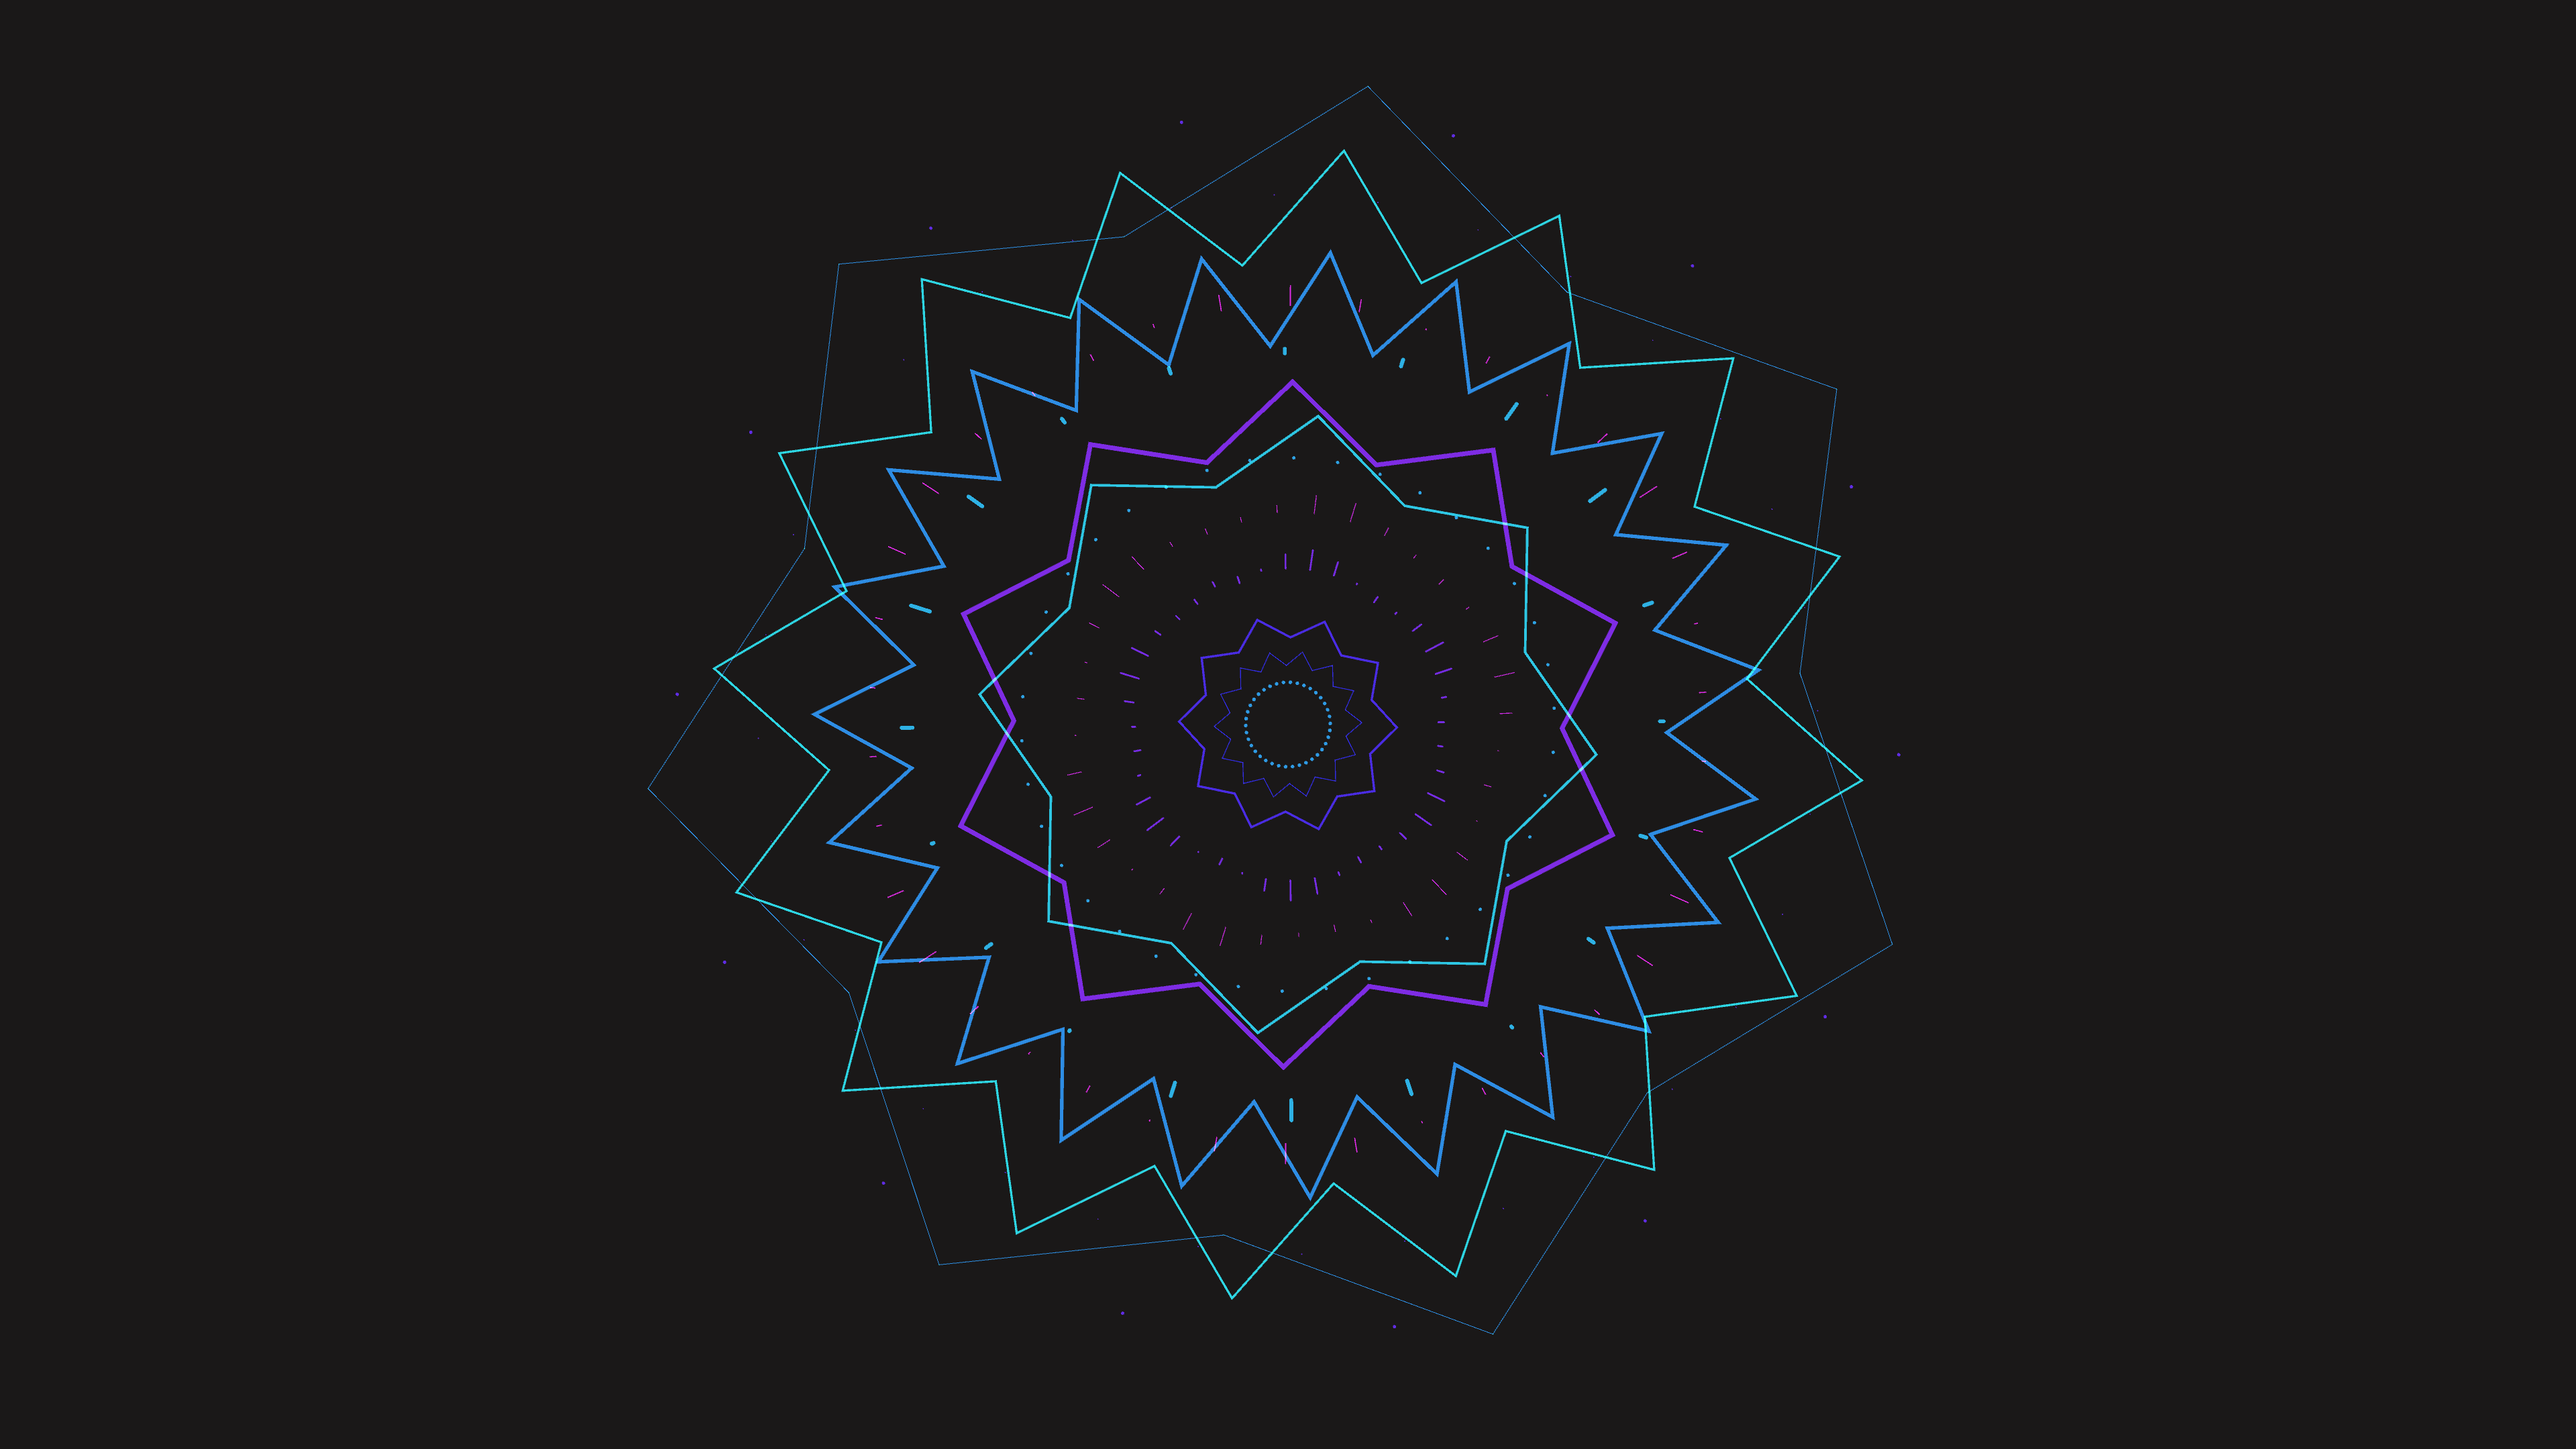
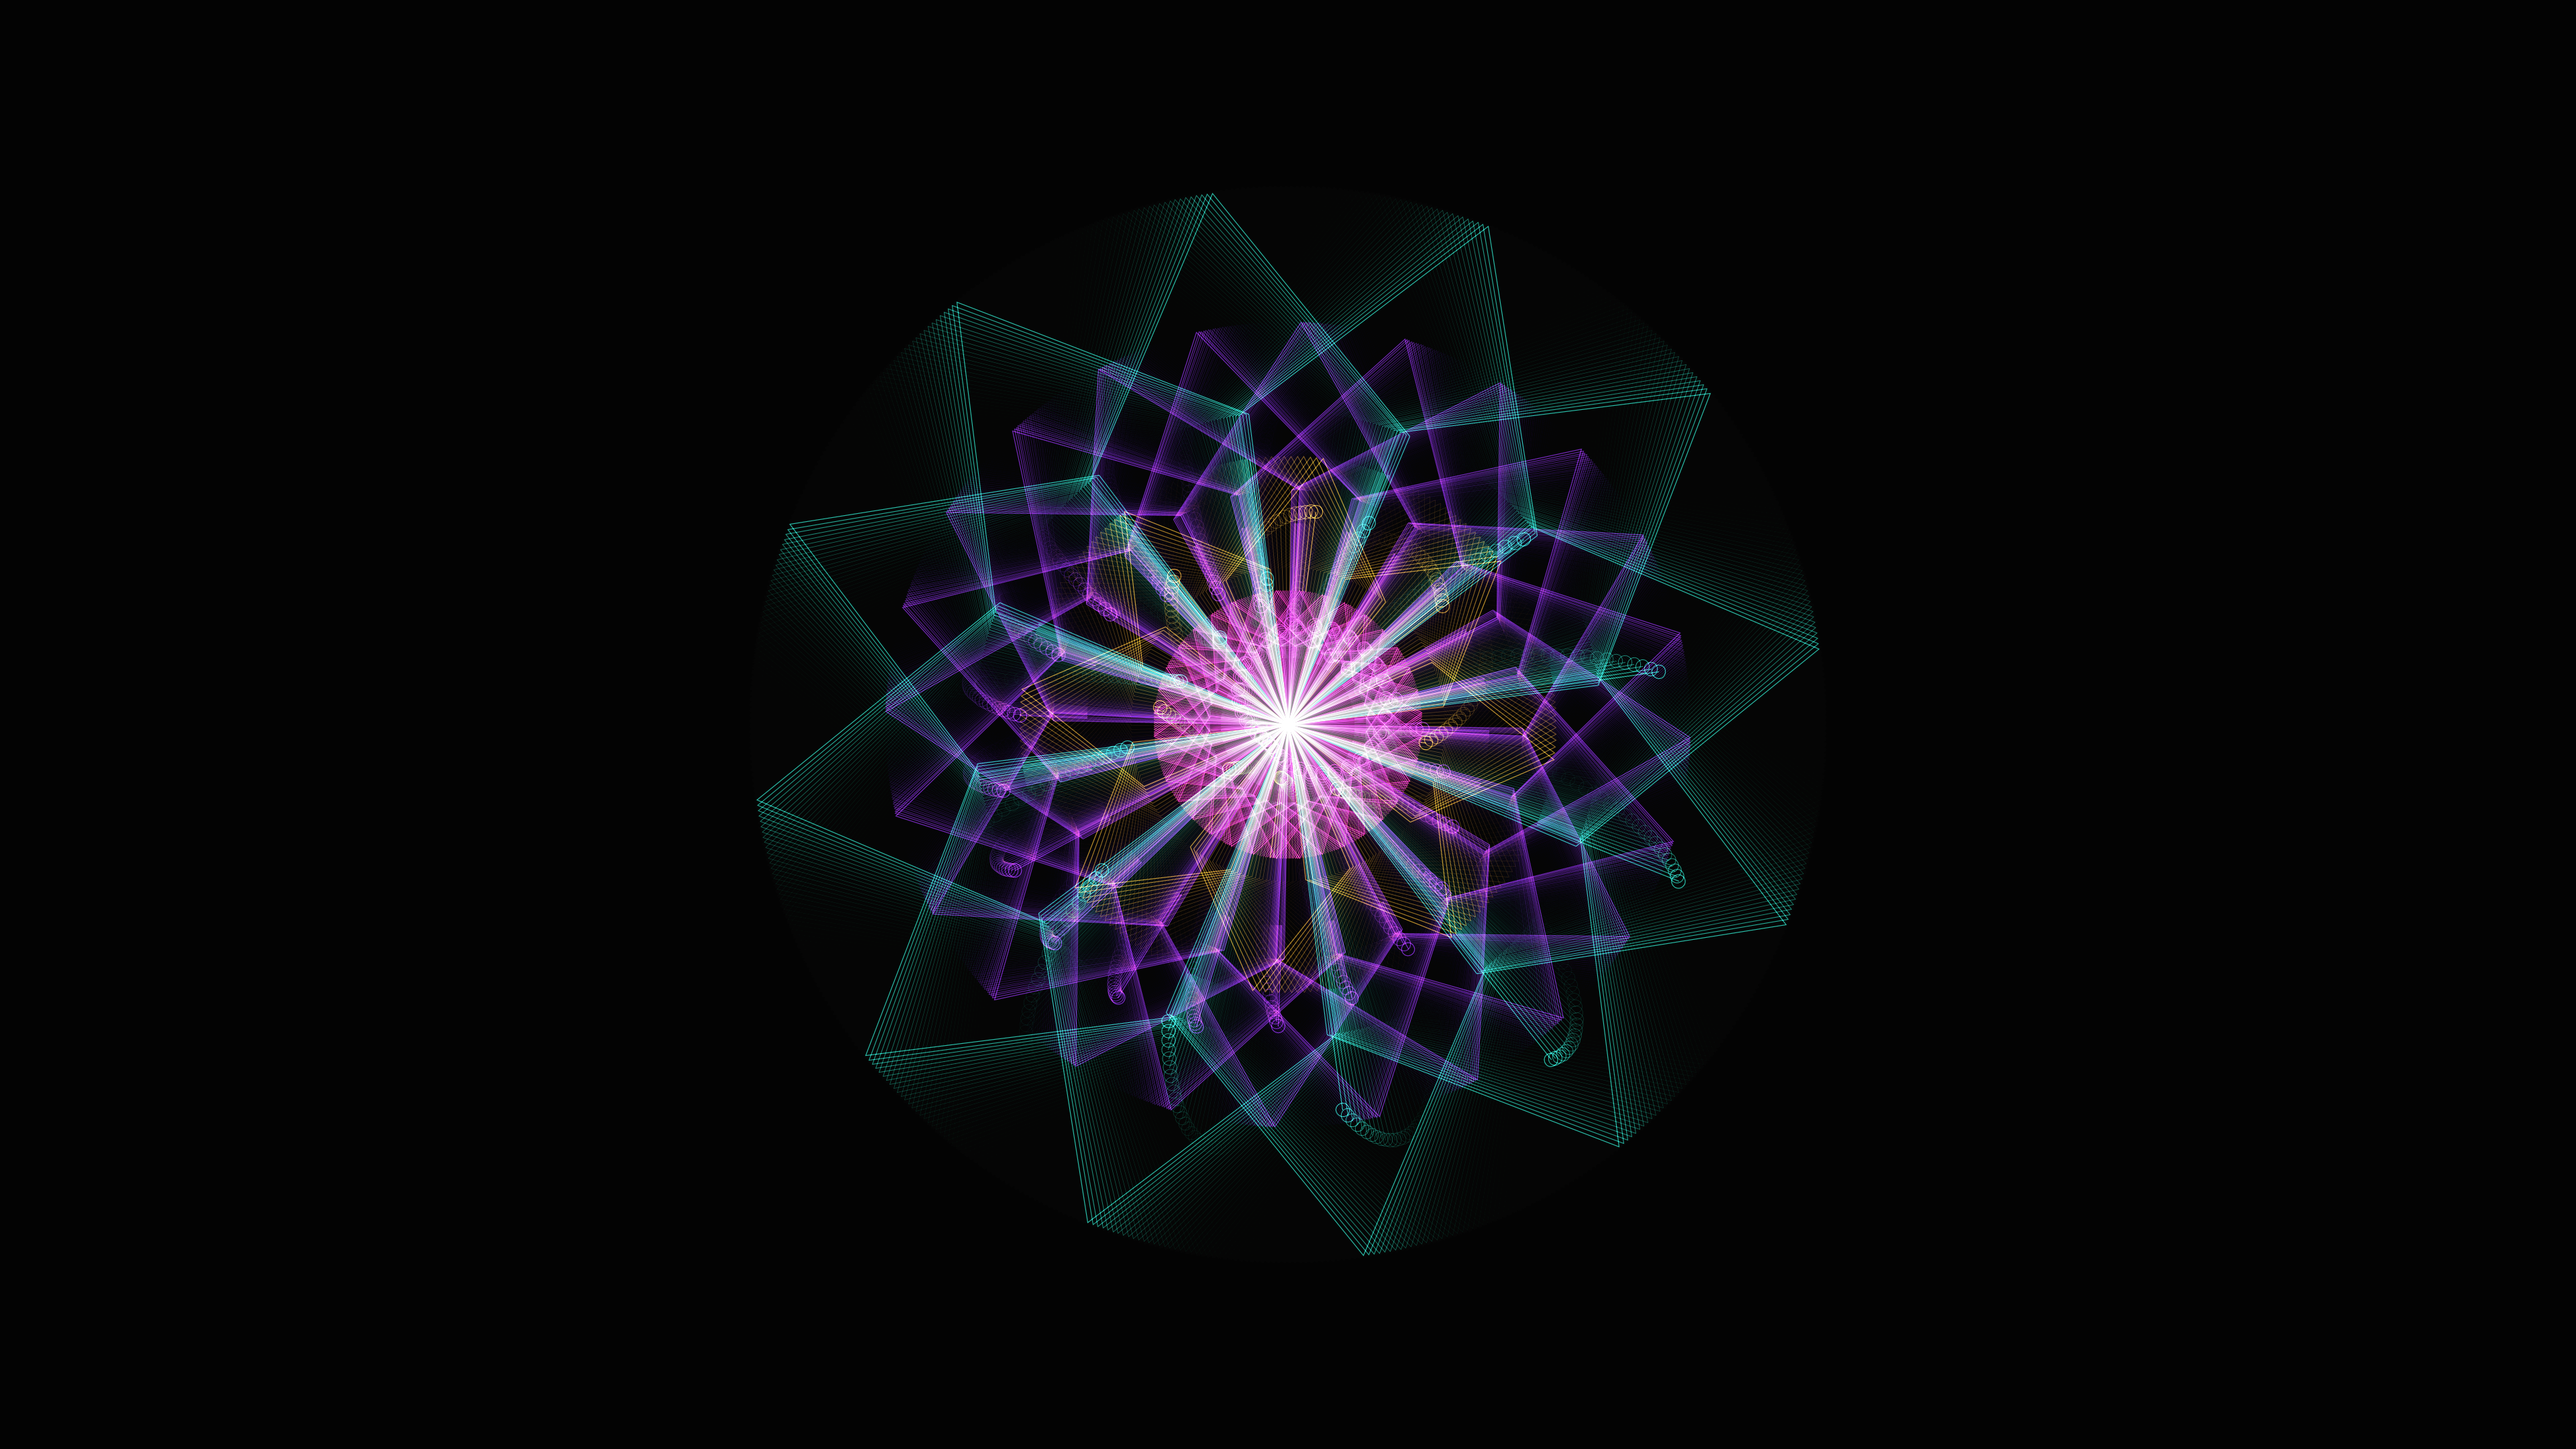
feat(art): add cybernetic_geometric_mandala_2d video artwork

Changed region(s): [[0.2812, 0.1241, 0.7188, 0.8685]]

diff --git a/sketch/cybernetic_geometric_mandala_2d/main.py b/sketch/cybernetic_geometric_mandala_2d/main.py
@@ -2,7 +2,6 @@ from pathlib import Path
 import shutil
 import subprocess
 import sys
-import numpy as np
 import py5
 
 PROJECT_ROOT = Path(__file__).resolve().parents[2]
@@ -23,89 +22,71 @@ PREVIEW_FILENAME = f"{WORK_NAME}_p1.png"
 PREVIEW_SIZE, OUTPUT_SIZE, _ = get_sizes()
 SIZE = OUTPUT_SIZE
 
-# Create data for rings
-num_rings = 15
-rings = []
-
 def setup():
-    py5.size(*SIZE, py5.P2D)
+    py5.size(*SIZE)
     py5.pixel_density(1)
-    FRAMES_DIR.mkdir(exist_ok=True)
     py5.color_mode(py5.HSB, 360, 100, 100, 100)
+    FRAMES_DIR.mkdir(exist_ok=True)
+    py5.background(5)
+    py5.blend_mode(py5.ADD)
+
+def draw_layer(num_petals, radius, rotation_speed, t, hue_base):
+    py5.push_matrix()
+    py5.rotate(t * rotation_speed)
+    py5.stroke((hue_base + py5.sin(t) * 30) % 360, 80, 90, 80)
+    py5.no_fill()
+    py5.stroke_weight(2 + py5.sin(t * 2) * 1.5)
     
-    max_radius = min(py5.width, py5.height) * 0.45
-    
-    for i in range(num_rings):
-        ring = {
-            "radius": py5.remap(i, 0, num_rings-1, 50, max_radius),
-            "speed": py5.random(-0.02, 0.02),
-            "segments": int(py5.random(6, 24)) * 2,
-            "thickness": py5.random(1, 8),
-            "hue": py5.random(180, 300), # Blues to purples
-            "style": int(py5.random(3)) # 0: dots, 1: lines, 2: polygons
-        }
-        rings.append(ring)
+    for i in range(num_petals):
+        angle = (i / num_petals) * py5.TWO_PI
+        py5.push_matrix()
+        py5.rotate(angle)
+        
+        # Draw a complex polygon petal
+        py5.begin_shape()
+        py5.vertex(0, 0)
+        py5.vertex(radius * 0.3, radius * 0.5)
+        py5.vertex(0, radius)
+        py5.vertex(-radius * 0.3, radius * 0.5)
+        py5.end_shape(py5.CLOSE)
+        
+        # Inner geometric lines
+        r2 = radius * (0.5 + 0.3 * py5.sin(t * 3 + angle))
+        py5.line(0, radius * 0.5, 0, r2)
+        py5.circle(0, r2, 20)
+        
+        py5.pop_matrix()
+        
+    py5.pop_matrix()
 
 def draw():
-    py5.background(5, 5, 10, 30) # Trails
-    
-    py5.translate(py5.width/2, py5.height/2)
-    py5.blend_mode(py5.ADD)
-    
-    t = py5.frame_count
-    
-    for i, ring in enumerate(rings):
-        py5.push_matrix()
-        # Rotate entire ring over time
-        py5.rotate(t * ring["speed"])
-        
-        # Pulse radius
-        r = ring["radius"] + py5.sin(t * 0.05 + i) * 20
-        
-        py5.stroke(ring["hue"], 90, 100, 80)
-        py5.stroke_weight(ring["thickness"])
-        py5.no_fill()
-        
-        seg_angle = py5.TWO_PI / ring["segments"]
-        
-        if ring["style"] == 0:
-            # Dots
-            for j in range(ring["segments"]):
-                ang = j * seg_angle
-                py5.point(r * py5.cos(ang), r * py5.sin(ang))
-                
-        elif ring["style"] == 1:
-            # Lines radiating outward
-            for j in range(ring["segments"]):
-                ang = j * seg_angle
-                l = 10 + py5.sin(t * 0.1 + j) * 20
-                x1 = r * py5.cos(ang)
-                y1 = r * py5.sin(ang)
-                x2 = (r + l) * py5.cos(ang)
-                y2 = (r + l) * py5.sin(ang)
-                py5.line(x1, y1, x2, y2)
-                
-        elif ring["style"] == 2:
-            # Polygon
-            py5.begin_shape()
-            for j in range(ring["segments"]):
-                ang = j * seg_angle
-                # Alternate radius for star-like shapes
-                rad = r if j % 2 == 0 else r * 0.8
-                py5.vertex(rad * py5.cos(ang), rad * py5.sin(ang))
-            py5.end_shape(py5.CLOSE)
-            
-        py5.pop_matrix()
-
     py5.blend_mode(py5.BLEND)
+    py5.no_stroke()
+    py5.fill(5, 10)
+    py5.rect(0, 0, py5.width, py5.height)
+    
+    py5.blend_mode(py5.ADD)
+    py5.translate(py5.width / 2, py5.height / 2)
+    
+    t = py5.frame_count * 0.02
+    
+    # Draw multiple layers of the mandala
+    draw_layer(12, 800,  0.5, t, 180)
+    draw_layer(24, 600, -0.3, t, 280)
+    draw_layer(8,  400,  1.2, t, 50)
+    draw_layer(36, 200, -0.8, t, 330)
+
+    if py5.frame_count % 60 == 0:
+        py5.load_np_pixels()
 
     py5.save_frame(str(FRAMES_DIR / "frame-####.png"))
 
     if py5.frame_count % 60 == 0:
-        print(f"[Render Progress] Frame {py5.frame_count}/{TOTAL_FRAMES}")
+        print(f"[Render Progress] Frame {py5.frame_count}/{TOTAL_FRAMES} ({(py5.frame_count/TOTAL_FRAMES)*100:.1f}%)")
 
     if py5.frame_count >= TOTAL_FRAMES:
         py5.exit_sketch()
+        
         subprocess.run([
             "ffmpeg", "-y", "-r", str(FPS),
             "-i", str(FRAMES_DIR / "frame-%04d.png"),

diff --git a/sketch/cybernetic_geometric_mandala_2d/README.md b/sketch/cybernetic_geometric_mandala_2d/README.md
@@ -1,12 +1,10 @@
 # cybernetic_geometric_mandala_2d
 
-An intricate, rotating geometric mandala constructed from hundreds of concentric cybernetic rings, pulsing to a hidden rhythm.
+A hypnotic, self-assembling 2D geometric mandala built from pulsing cybernetic lines and polygons.
+
+![Preview](cybernetic_geometric_mandala_2d_p1.png)
 
 ## Details
-
-- **Type**: 2D animation
-- **Length**: 10 seconds (60fps)
-
-## Technique
-
-Procedural generation of nested polar coordinate shapes (polygons, arcs, lines) that rotate at varying harmonic speeds and pulse their radii. Rendered with high contrast glowing lines and additive blending, simulating a complex digital artifact.
+- **Date**: 2026-06-20
+- **Technique**: Layered 2D rotation grids and sine-wave driven scaling parameters. Neon outlines with additive blending.
+- **Format**: Animation (10s @ 60fps)

diff --git a/sketch/WORKS.md b/sketch/WORKS.md
@@ -1,3 +1,10 @@
+## cybernetic_geometric_mandala_2d
+
+- **Date**: 2026-06-20
+- **Theme**: A hypnotic, self-assembling 2D geometric mandala built from pulsing cybernetic lines and polygons.
+- **Technique**: Layered 2D rotation grids and sine-wave driven scaling parameters. Neon outlines with additive blending.
+- **Description**: An animated 10s sequence of a glowing geometric cyber-mandala.
+
 ## ambient_vector_field_flocking_3d
 
 - **Date**: 2026-06-20

diff --git a/.agents/FEEDBACK.md b/.agents/FEEDBACK.md
@@ -1,3 +1,8 @@
+## cybernetic_geometric_mandala_2d
+
+- **Rating**: 
+- **Comment**: 
+
 ## ambient_vector_field_flocking_3d
 
 - **Rating**: 
